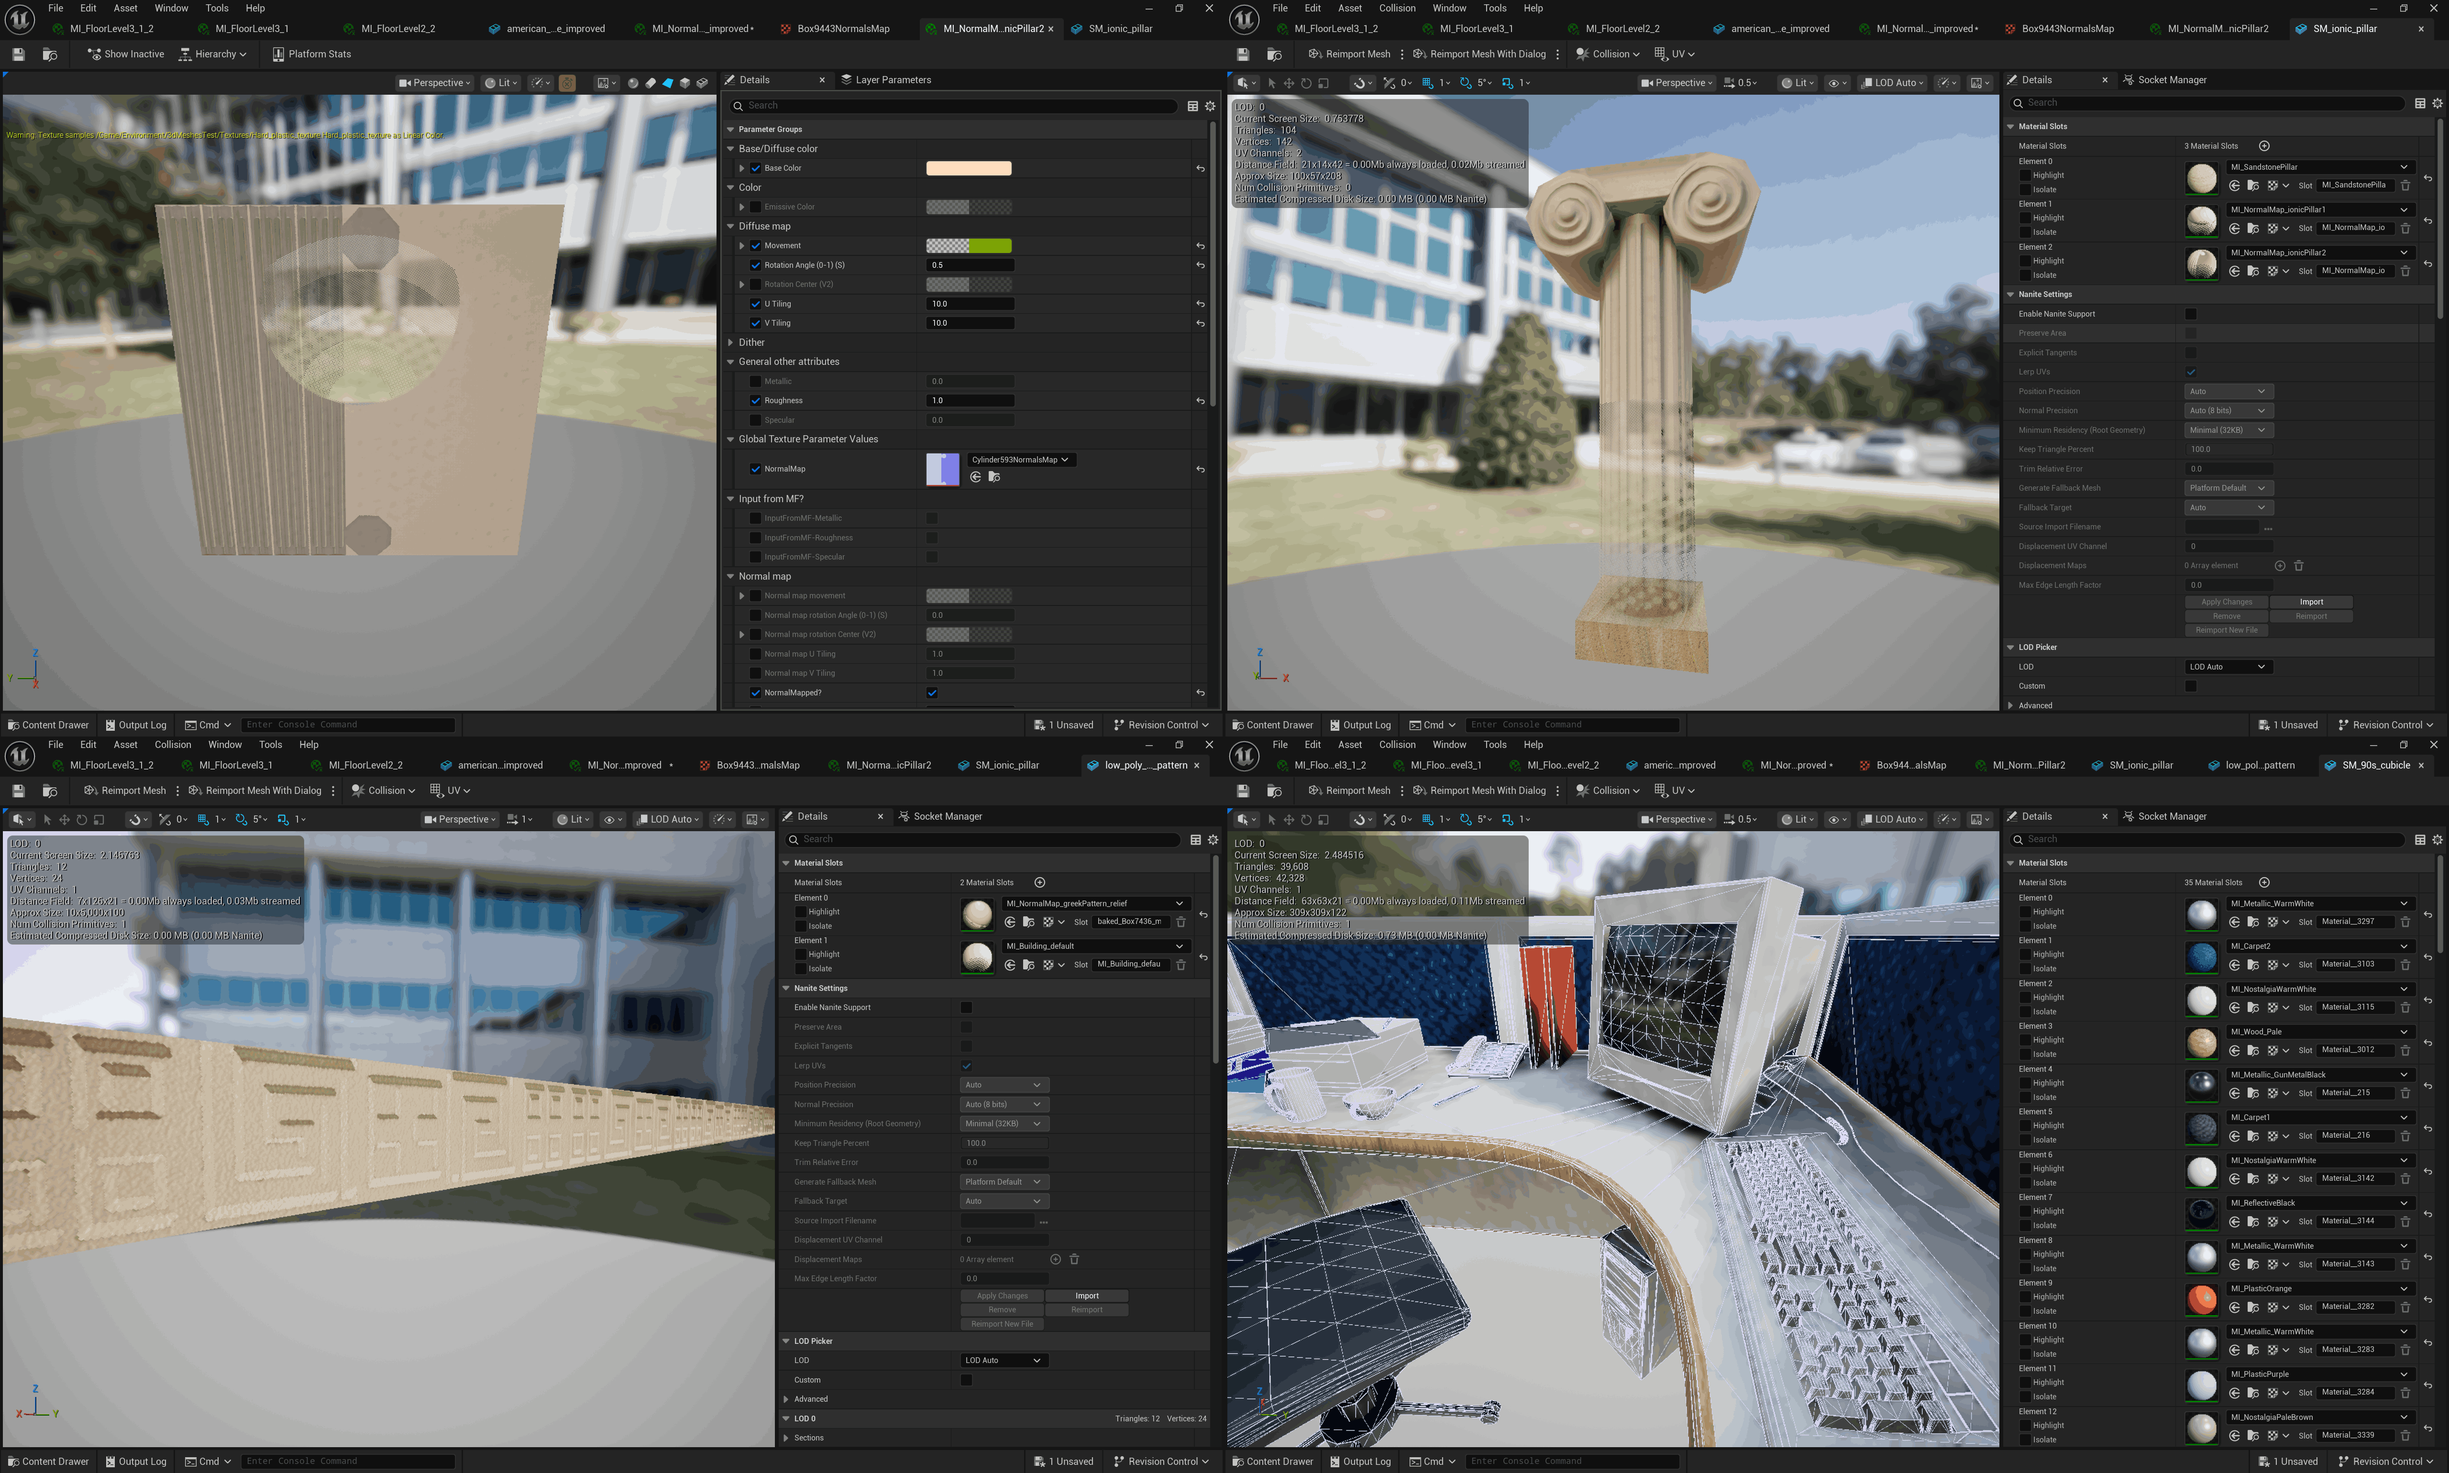
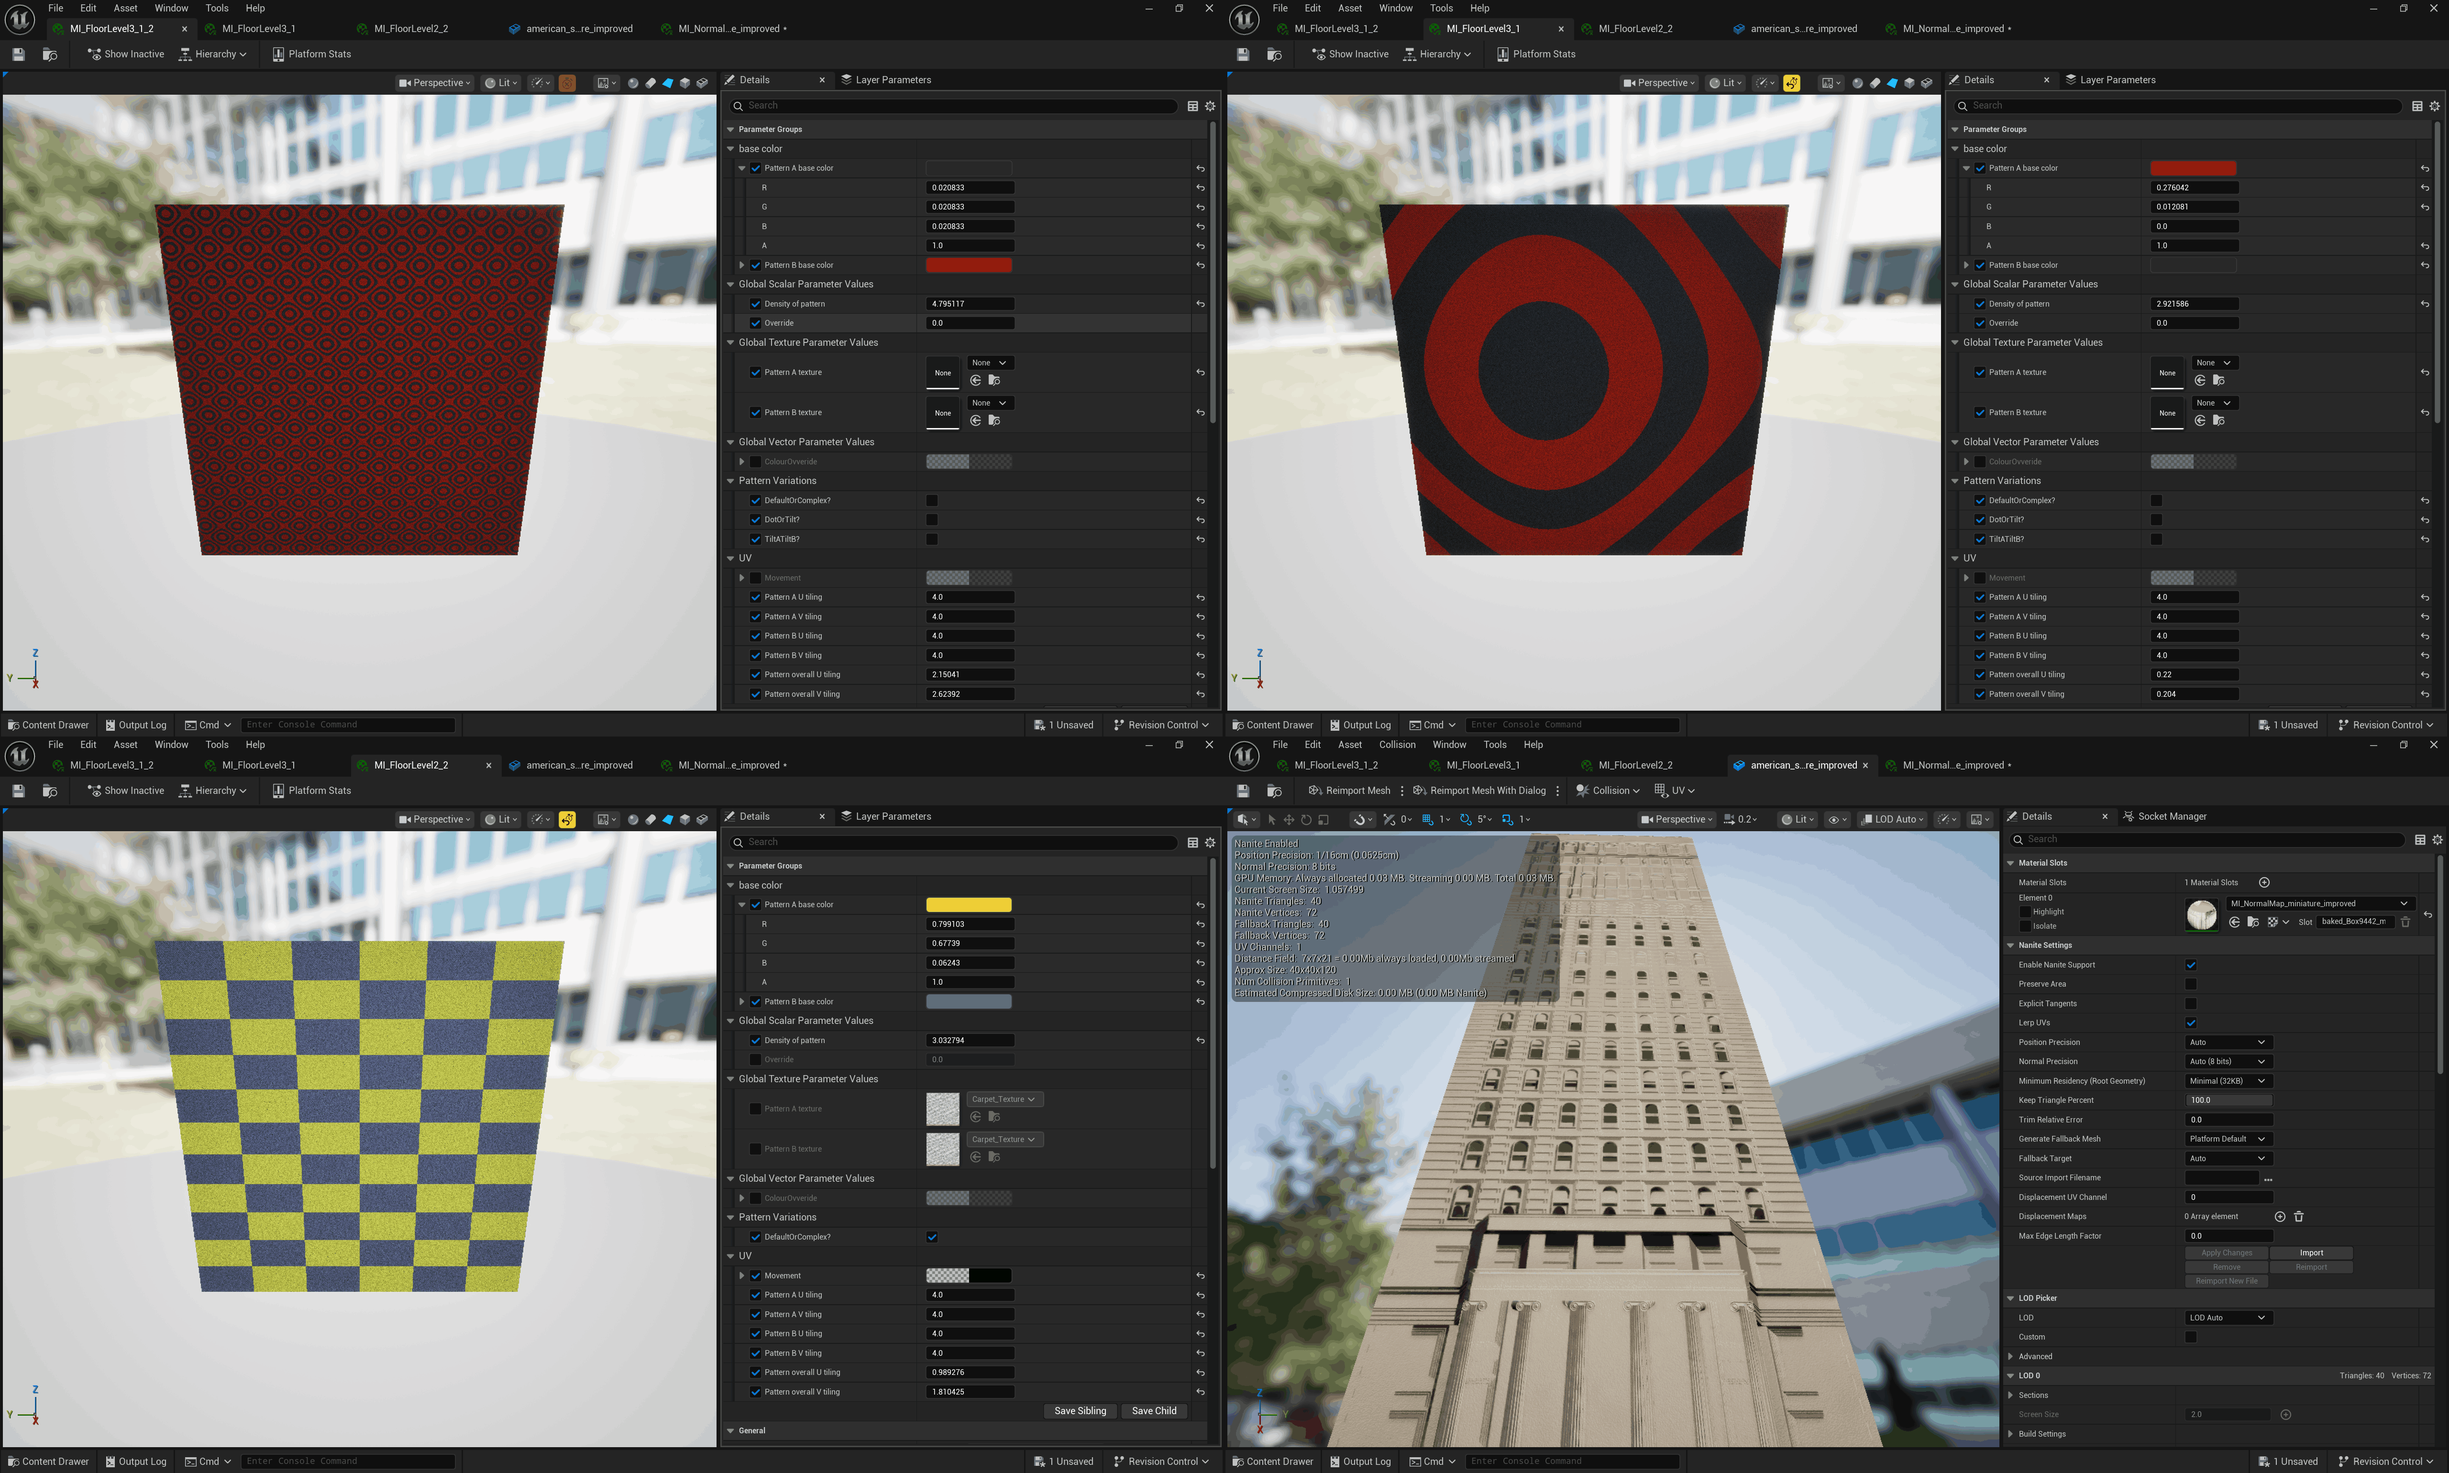
images updated

diff --git a/src/data/games.js b/src/data/games.js
@@ -25,7 +25,8 @@ const rawGames = [
     cover: '/cover/game1cover.jpg',
     images: ['/cover/game1cover.jpg', 
              '/cover/game1cover2.png', 
-             '/cover/game1cover3.png'],
+             '/cover/game1cover3.png',
+            '/cover/game1cover4.png'],
     contributions: ['I created the game’s environment, modelled and optimised all 3D assets.', 'Produced optimised assets with a target of fewer than 200 triangles per object.', 'Developed a reusable Unreal Engine master material with efficient mixed-texture support.', 'Converted a 900,000+ triangle building exterior into low-poly assets with normal mapping.', 'Collaborated with concept artist, animators and level designers to support the game’s visual direction and level integration.'], 
     quick_info: 'Team of 13 · Environment artist · Art direction changed 3 times · 12 weeks'
   },
